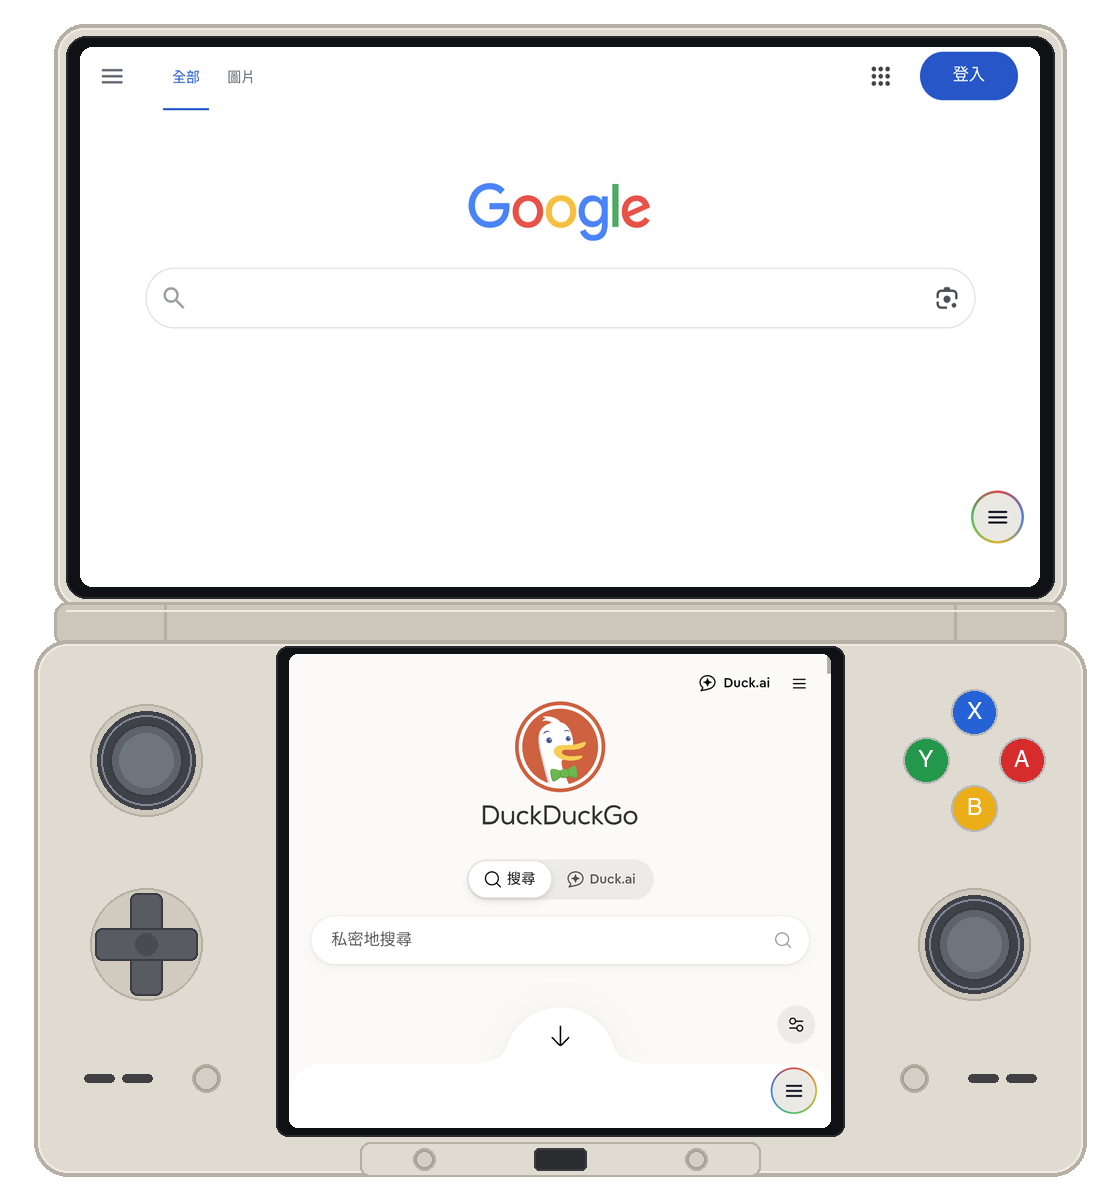
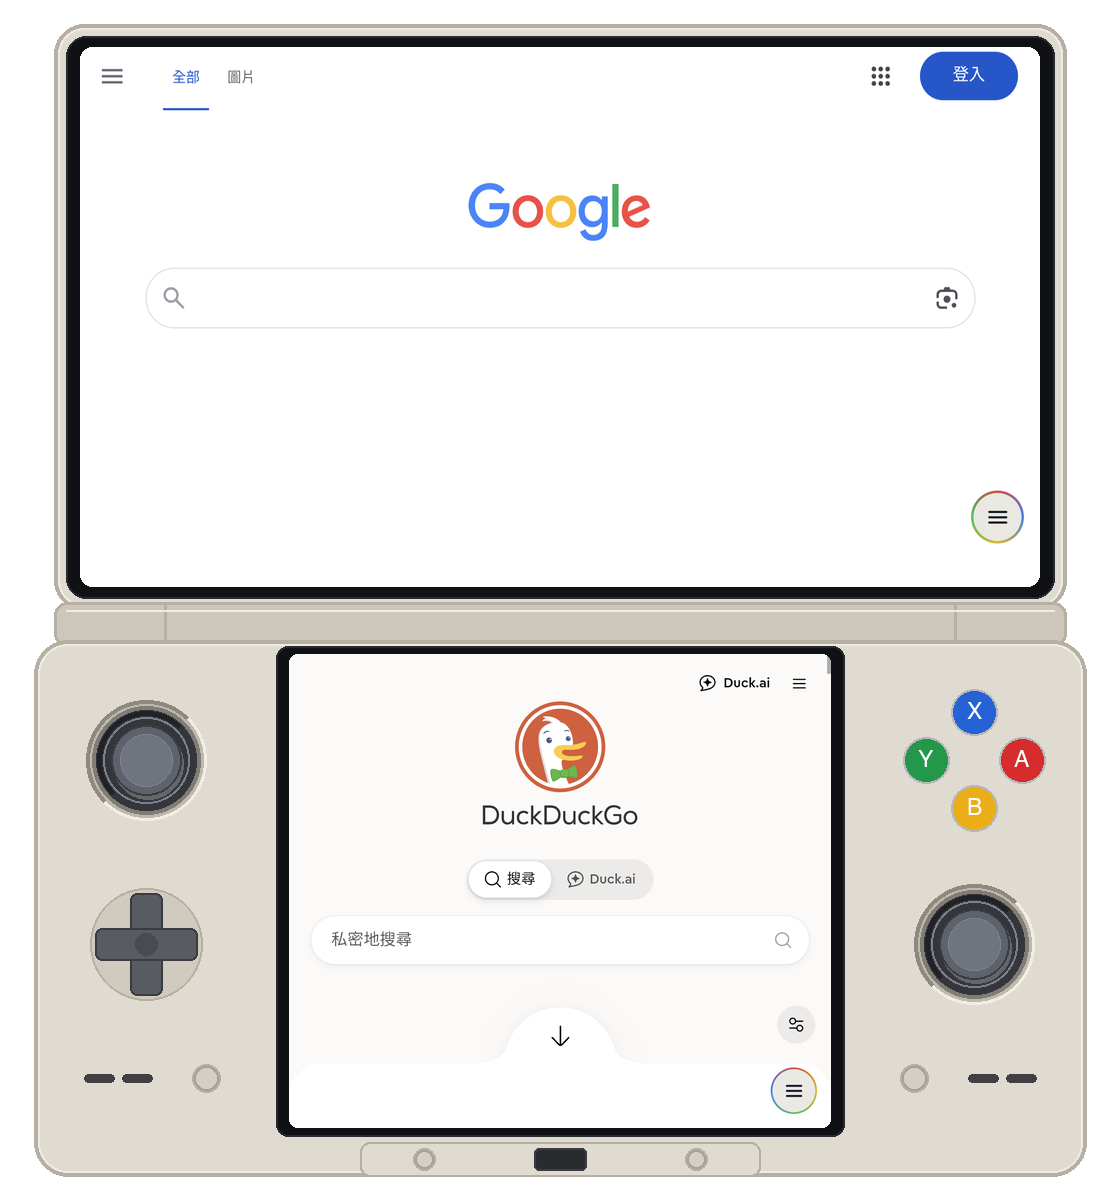
docs: add 3D recessed joystick wells to AYN Thor mockups

Changed region(s): [[0.0625, 0.5878, 0.1875, 0.6806], [0.8125, 0.7425, 0.9062, 0.8353], [0.9062, 0.7734, 0.9375, 0.8043]]

diff --git a/README.md b/README.md
@@ -16,7 +16,7 @@
 
 | 雙螢幕獨立模式（Google ＋ DuckDuckGo） | 跨螢幕拼接模式（原生 1080p 無縫延伸） |
 | :---: | :---: |
-| <img src="docs/screenshots/thor_independent.png?v=5" alt="AYN Thor 雙螢幕獨立模式" width="380" /> | <img src="docs/screenshots/thor_span.png?v=5" alt="AYN Thor 跨螢幕拼接模式" width="380" /> |
+| <img src="docs/screenshots/thor_independent.png?v=6" alt="AYN Thor 雙螢幕獨立模式" width="380" /> | <img src="docs/screenshots/thor_span.png?v=6" alt="AYN Thor 跨螢幕拼接模式" width="380" /> |
 
 ### 2. 全螢幕與統一浮動選單
 - 隱藏狀態列與導覽列的純淨全螢幕瀏覽，透過 `LaunchTrampolineActivity` 確保於主顯示器（上螢幕）正確啟動。
@@ -30,7 +30,7 @@
 
 | 統一浮動選單 | 新手教學導覽 |
 | :---: | :---: |
-| <img src="docs/screenshots/thor_menu_touchpad.png?v=5" alt="AYN Thor 統一浮動選單" width="380" /> | <img src="docs/screenshots/thor_tutorial.png?v=5" alt="AYN Thor 新手教學導覽" width="380" /> |
+| <img src="docs/screenshots/thor_menu_touchpad.png?v=6" alt="AYN Thor 統一浮動選單" width="380" /> | <img src="docs/screenshots/thor_tutorial.png?v=6" alt="AYN Thor 新手教學導覽" width="380" /> |
 
 ### 3. AYN Thor 主機配色主題
 內建 5 款對應 AYN Thor 實機外觀的配色主題（預設為 `Rainbow`），皆支援雙螢幕即時同步：
@@ -41,7 +41,7 @@
 - **Custom**（自訂色相滑桿）
 
 <p align="center">
-  <img src="docs/screenshots/thor_theme_settings.png?v=5" alt="AYN Thor 主機配色主題設定" width="380" />
+  <img src="docs/screenshots/thor_theme_settings.png?v=6" alt="AYN Thor 主機配色主題設定" width="380" />
 </p>
 
 ### 4. 手把與下螢幕觸控板
@@ -56,7 +56,7 @@
 
 | 手把快捷操作說明（無觸控板） | 拼接模式＋下螢幕多指觸控板 |
 | :---: | :---: |
-| <img src="docs/screenshots/thor_gamepad_guide.png?v=5" alt="AYN Thor 手把快捷操作說明" width="380" /> | <img src="docs/screenshots/thor_touchpad.png?v=5" alt="AYN Thor 下螢幕多指觸控板" width="380" /> |
+| <img src="docs/screenshots/thor_gamepad_guide.png?v=6" alt="AYN Thor 手把快捷操作說明" width="380" /> | <img src="docs/screenshots/thor_touchpad.png?v=6" alt="AYN Thor 下螢幕多指觸控板" width="380" /> |
 
 ### 5. 隱私與網頁增強
 - 內建廣告網域阻擋（`AdBlocker`）與攔截計數
